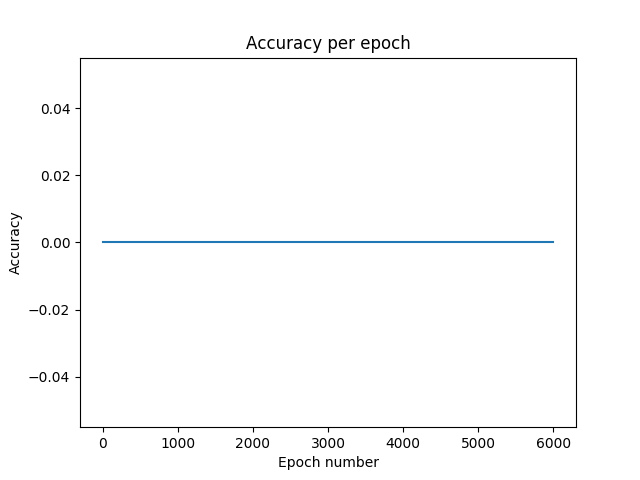
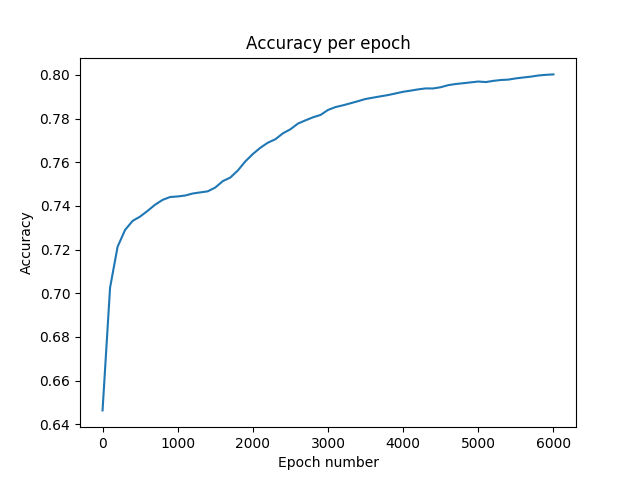
Tarea 1

diff --git a/README.md b/README.md
@@ -53,8 +53,7 @@ de las cuales se extrajo un 20% para el conjunto de testing. Cabe mencionar que
 en la separación de datos no se equiparó la cantidad de las dos output labels, lo
 que hubiese podido variar la performance de la red. Quedó pendiente evaluar esto.
 
-En general, el rendimiento de la red se considera buena. Para esto sólo se tomó 
-en cuenta el error, pero no el accuracy. Sin embargo al imprimir la matriz de
+En general, el rendimiento de la red se considera buena. Además, al imprimir la matriz de
 confusión luego de la predicción, alrededor del 80% de los datos fueron
 correctamente predichos. A continuación se adjunta la matriz de confusión,
 la tasa de error por época y el accuracy por época:
